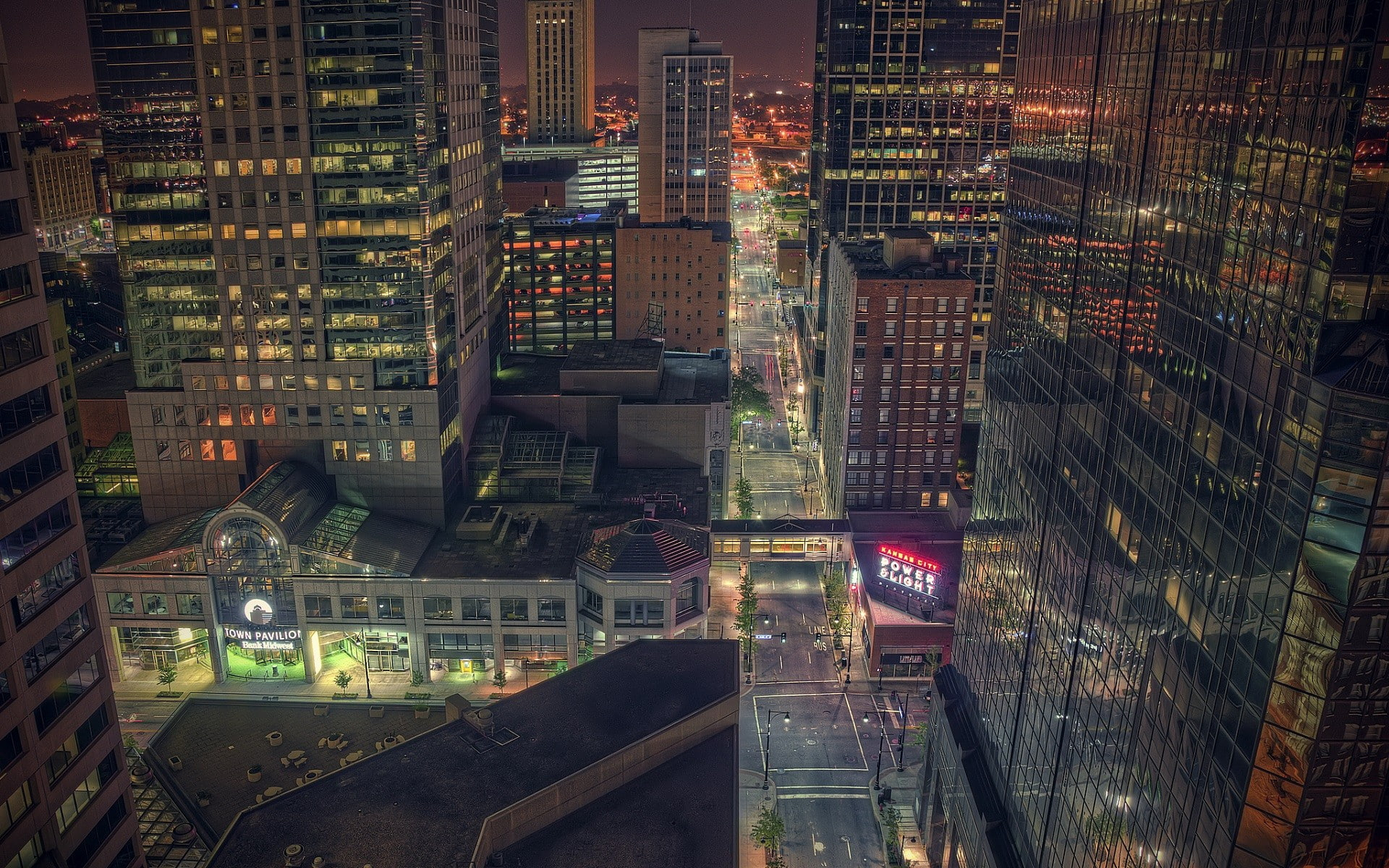
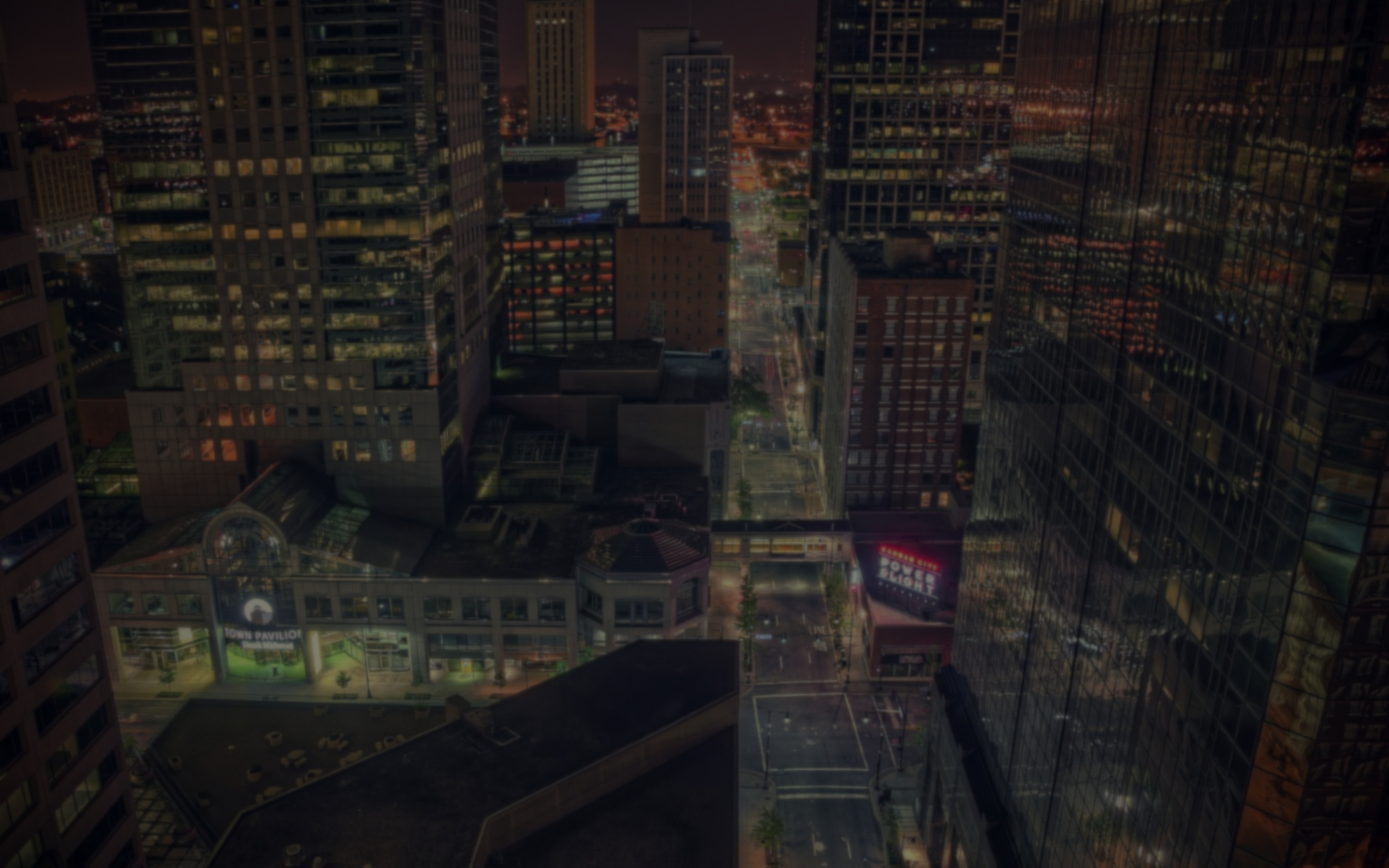
background remapping, prep works size, added click and lock on navbar

diff --git a/src/components/navbar/navitem.js b/src/components/navbar/navitem.js
@@ -30,7 +30,7 @@ export default class NavItem extends Component {
 
     const props = this.props;
 
-    function onMouseLeave(e) {
+    function onMouseLeave() {
       props.onNavItem(false);
 
       setTimeout(() => {
@@ -42,9 +42,7 @@ export default class NavItem extends Component {
       }, 1000);
     }
 
-    function onMouseEnter(e) {
-      const thisNode = Nodes[props.name];
-
+    function onMouseEnter() {
       if (isTransitioning !== true) {
         isTransitioning = true;
         oldLocation = highlight.style.cssText;
@@ -66,11 +64,27 @@ export default class NavItem extends Component {
       }, 5);
     }
 
+    function onClick() {
+      const coords = {
+        width: Nodes[props.name].clientWidth,
+        height: Nodes[props.name].clientHeight,
+        top: Nodes[props.name].offsetTop - 1,
+        left: Nodes[props.name].offsetLeft,
+      };
+
+      highlight.style.width = `${coords.width}px`;
+      highlight.style.height = `${coords.height}px`;
+      highlight.style.transform = `translate(${coords.left}px, ${coords.top}px)`;
+
+      oldLocation = highlight.style.cssText;
+    }
+
     return (
       <li
         className="nav-item"
         onMouseEnter={onMouseEnter}
         onMouseLeave={onMouseLeave}
+        onClick={onClick}
         style={{ color: this.textColor }}
       >
         {this.props.name}

diff --git a/src/components/works/works.js b/src/components/works/works.js
@@ -8,21 +8,15 @@ import './works.css';
 export default class Home extends Component {
   render() {
     return (
-      <div className="home">
-        <img className="home-background" src={Background} />
-        <div className="home-container">
-          <div className="home-align">
-            <div className="home-left">
-              <h1 className="home-intro">Hello, my name is Chase.</h1>
-              <h1 className="home-intro">I am a Software Engineer.</h1>
-            </div>
-            <div className="home-right">
-              <div className="home-image">
-                <img src={Selfie} alt="image" className="home-selfie" />
-              </div>
-            </div>
-          </div>
-        </div>
+      <div className="works">
+        {/* <svg className="works-svg">
+          <path
+            className="works-svg-path"
+            fill="#f8f8ff"
+            fill-opacity="1"
+            d="M0,96L48,133.3C96,171,192,245,288,272C384,299,480,277,576,240C672,203,768,149,864,117.3C960,85,1056,75,1152,112C1248,149,1344,235,1392,277.3L1440,320L1440,320L1392,320C1344,320,1248,320,1152,320C1056,320,960,320,864,320C768,320,672,320,576,320C480,320,384,320,288,320C192,320,96,320,48,320L0,320Z"
+          ></path>
+        </svg> */}
       </div>
     );
   }

diff --git a/src/components/home/home.css b/src/components/home/home.css
@@ -1,20 +1,17 @@
 .home {
-  height: 100vh;
-  width: 100vw;
-}
-.home-background {
-  position: absolute;
   max-height: 100vh;
   width: 100vw;
-  top: 0;
-  left: 0;
-  z-index: -5;
-  filter: brightness(30%);
-  opacity: 30%;
+  background-image: url('../../assets/background.jpg');
+  background-repeat: no-repeat;
+  background-size: cover;
   border-bottom: 2px solid #f8f8ff;
+  /* background-image:  */
+  /* filter: brightness(30%);
+  opacity: 30%; */
 }
 .home-container {
-  height: 40%;
+  height: 100%;
+  padding: 5%;
   padding-right: 5%;
   padding-left: 5%;
   margin-right: auto;
@@ -29,14 +26,10 @@
   height: 100%;
 }
 .home-left {
-  margin-top: 100px;
-
   flex: 0 0 50%;
   max-width: 50%;
 }
 .home-right {
-  margin-top: 100px;
-
   flex: 0 0 50%;
   max-width: 50%;
 }
@@ -72,4 +65,10 @@
   transform: rotate(5deg) scaleX(-1);
   filter: brightness(92%);
   z-index: 2;
+}
+
+.home-fix {
+  height: 40%;
+  width: 100%;
+  background-color: #111111a0;
 }

diff --git a/src/components/home/home.js b/src/components/home/home.js
@@ -5,11 +5,12 @@ import Background from '../../assets/background.jpg';
 
 import './home.css';
 
+const particles = [];
+
 export default class Home extends Component {
   render() {
     return (
       <div className="home">
-        <img className="home-background" src={Background} />
         <div className="home-container">
           <div className="home-align">
             <div className="home-left">
@@ -18,10 +19,11 @@ export default class Home extends Component {
             </div>
             <div className="home-right">
               <div className="home-image">
-                <img src={Selfie} alt="image" className="home-selfie" />
+                <img src={Selfie} alt="home" className="home-selfie" />
               </div>
             </div>
           </div>
+          <div className="home-fix" />
         </div>
       </div>
     );

diff --git a/src/components/works/works.css b/src/components/works/works.css
@@ -1,0 +1,16 @@
+.works {
+  width: 100vw;
+  height: 100vh;
+}
+.works-svg {
+  display: flex;
+  justify-content: baseline;
+  width: 100%;
+  height: 100%;
+}
+
+.works-svg-path {
+  top: 0;
+  width: 100%;
+  height: 100%;
+}

diff --git a/src/components/navbar/navbar.css b/src/components/navbar/navbar.css
@@ -49,7 +49,7 @@
   margin-left: 15px;
   padding: 5px 15px;
   text-decoration: none;
-  background: rgba(0, 0, 0, 0.05);
+  background: rgba(255, 255, 255, 0.4);
   border-radius: 20px;
   z-index: 10000;
   font-weight: bold;
